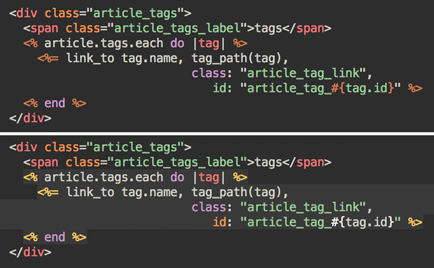
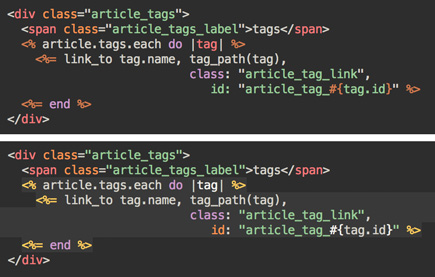
readme and pictures

Changed region(s): [[0.0, 0.3582, 1.0, 0.8657], [0.0, 0.0299, 0.9885, 0.3582], [0.0, 0.8657, 0.2097, 0.9552]]

diff --git a/README.md b/README.md
@@ -9,9 +9,9 @@ The [original base16](https://github.com/chriskempson/base16), on the other hand
 
 ## Improved syntax highlighting
 
-* symbols
-    * use a different color from that of the strings.
-    * the colon uses the default source color, like the other markers (`@`, `$`).
+* Symbols
+    * Symbols and Strings use different colors.
+    * the colon uses the default punctuation color, like the variable qualifiers (`@`, `$`).
 
 ![symbols](https://github.com/tompave/RailsBase16-builder/raw/master/images/symbols.jpg)
 
@@ -19,34 +19,39 @@ The [original base16](https://github.com/chriskempson/base16), on the other hand
     * `<%=  %>` tags use a color more detectable in HTML files.
     * embedded ruby code has a specific background color (as seen in Railscasts and Sublime's default Cobalt color scheme).
 
-![symbols](https://github.com/tompave/RailsBase16-builder/raw/master/images/ERB.jpg)
+![ERB](https://github.com/tompave/RailsBase16-builder/raw/master/images/ERB.jpg)
+
+* Haml
+    * separate colors for `%tag`, `.class` and `#id` declarations
+
+![haml](https://github.com/tompave/RailsBase16-builder/raw/master/images/haml.jpg)
 
 * String Interpolation
-    * embedded ruby code uses its normal color, not the one of the string.
+    * embedded ruby code uses appropriate source colors, not the String color.
     * embedded ruby code has a specific background color.
 
-![symbols](https://github.com/tompave/RailsBase16-builder/raw/master/images/strings.jpg)
+![strings](https://github.com/tompave/RailsBase16-builder/raw/master/images/strings.jpg)
 
 * Operators
     * operators (`=`, `+`, `&&`, `and`, etc) use a specific color.
 
-![symbols](https://github.com/tompave/RailsBase16-builder/raw/master/images/operators.jpg)
+![operators](https://github.com/tompave/RailsBase16-builder/raw/master/images/operators.jpg)
 
 * SCSS
     * separate colors for CSS selectors (`.`, `#`), Sass directives (`@`), and units (`px`, `em`).
-    * color for `$variables` doesn't clash with tag selectors (`div`, `span`, etc).
-    * colors for CSS values.
+    * the color used for `$variables` doesn't clash with the used for tag selectors (`div`, `span`, etc).
+    * colors for recognized CSS values.
 
-![symbols](https://github.com/tompave/RailsBase16-builder/raw/master/images/scss.jpg)
+![scss](https://github.com/tompave/RailsBase16-builder/raw/master/images/scss.jpg)
 
 * punctuation
     * improved handling of punctuation
 
-![symbols](https://github.com/tompave/RailsBase16-builder/raw/master/images/punctuation.jpg)
+![punctuation](https://github.com/tompave/RailsBase16-builder/raw/master/images/punctuation.jpg)
 
 
 * module declarations
-    * Module declarations now use the same color of class declarations, instead of the color reserved to strings.
+    * Module declarations now use the same color of class declarations, instead of the color used by Strings.
 
 ![module_class](https://github.com/tompave/RailsBase16-builder/raw/master/images/module_class.jpg)
 
